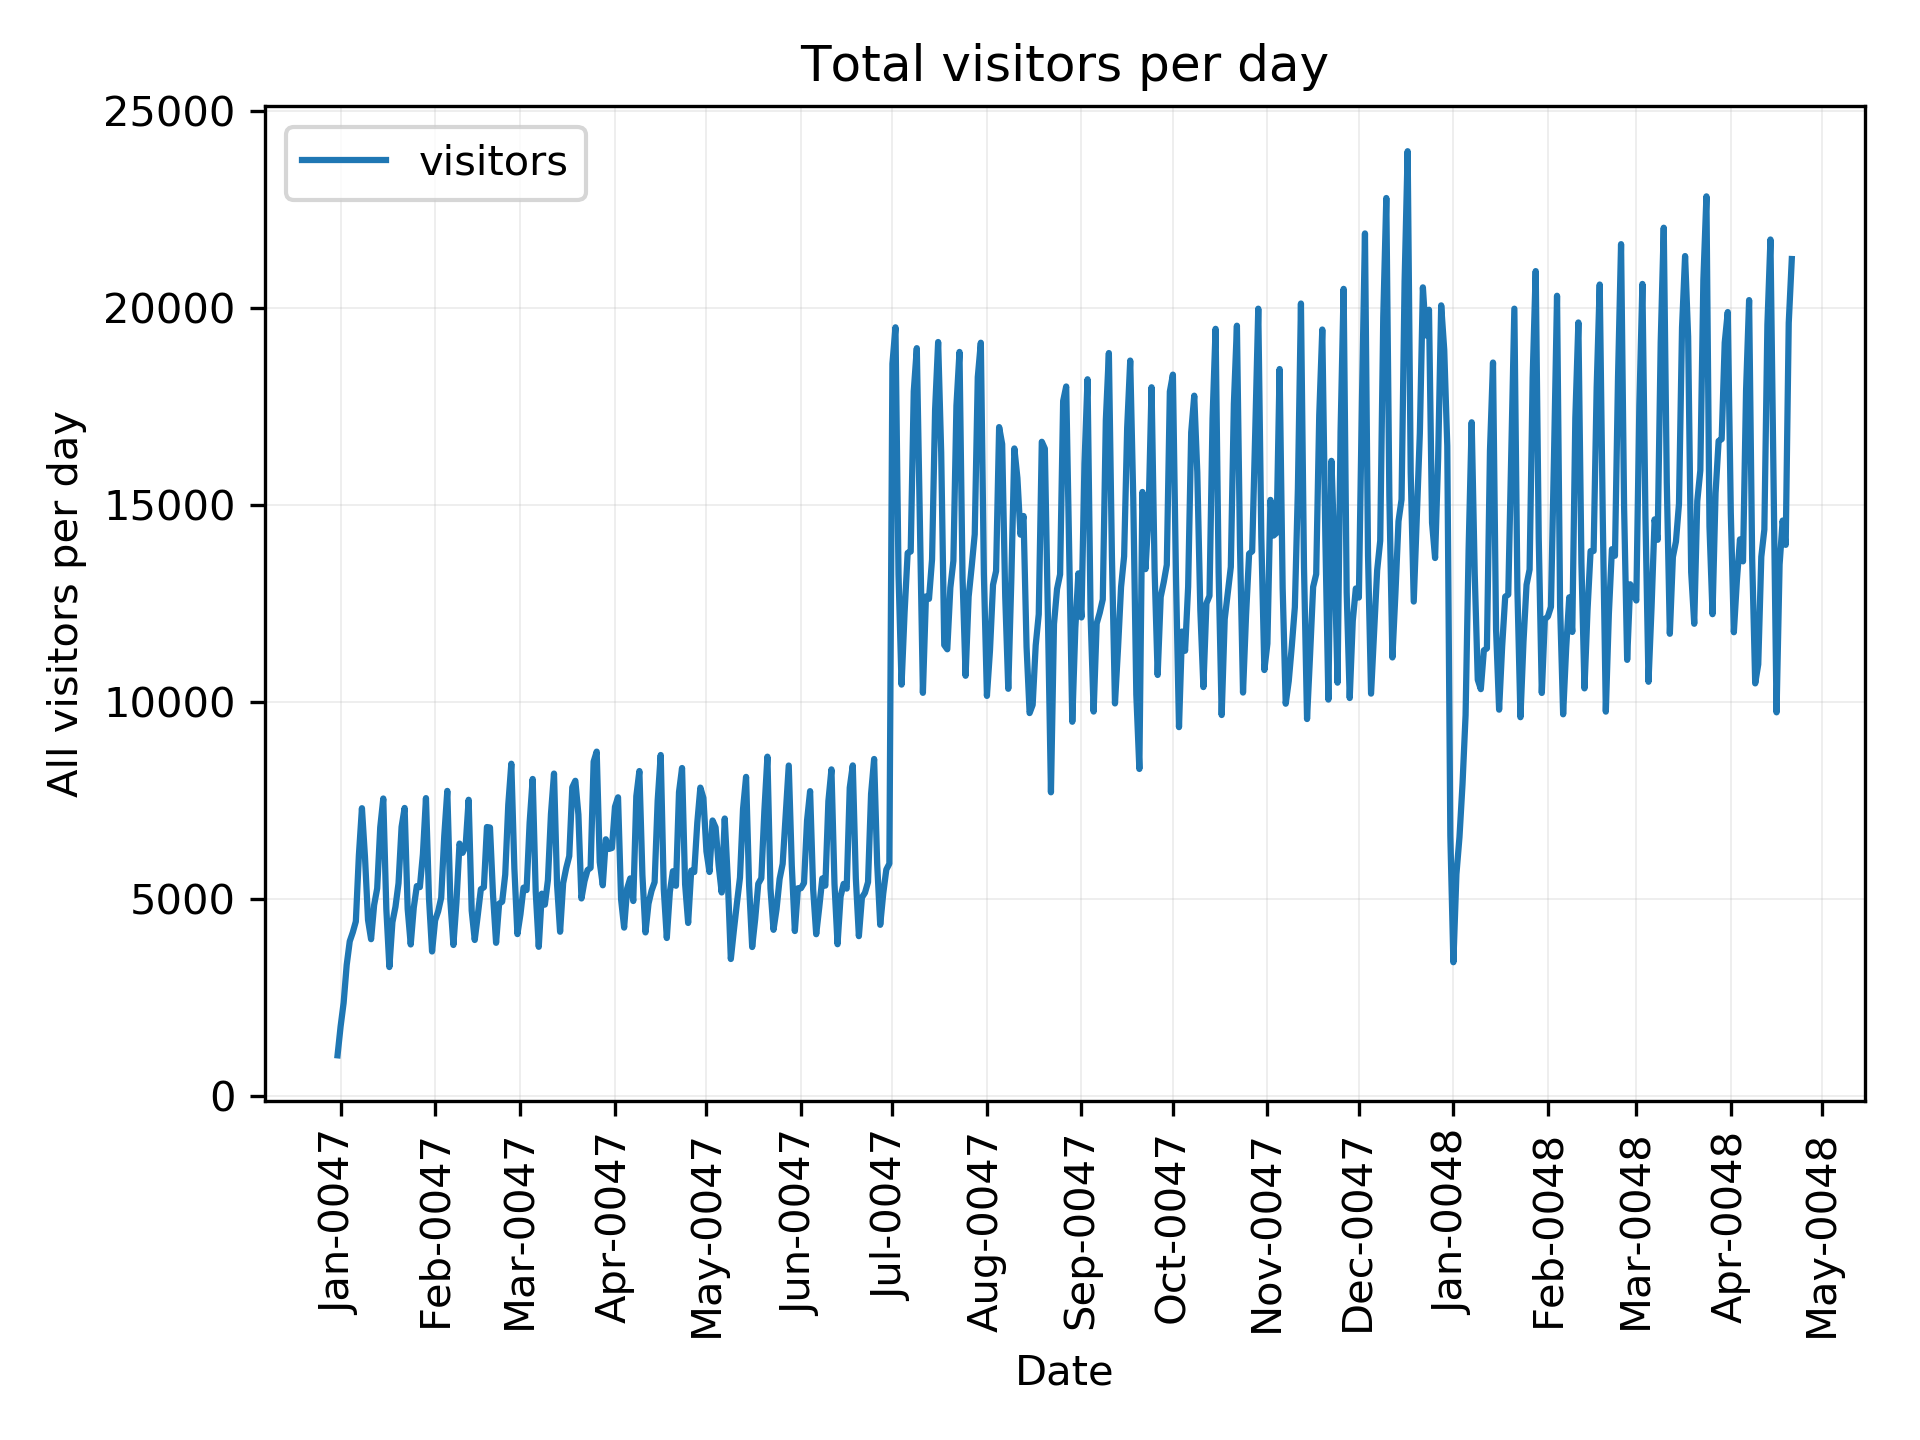
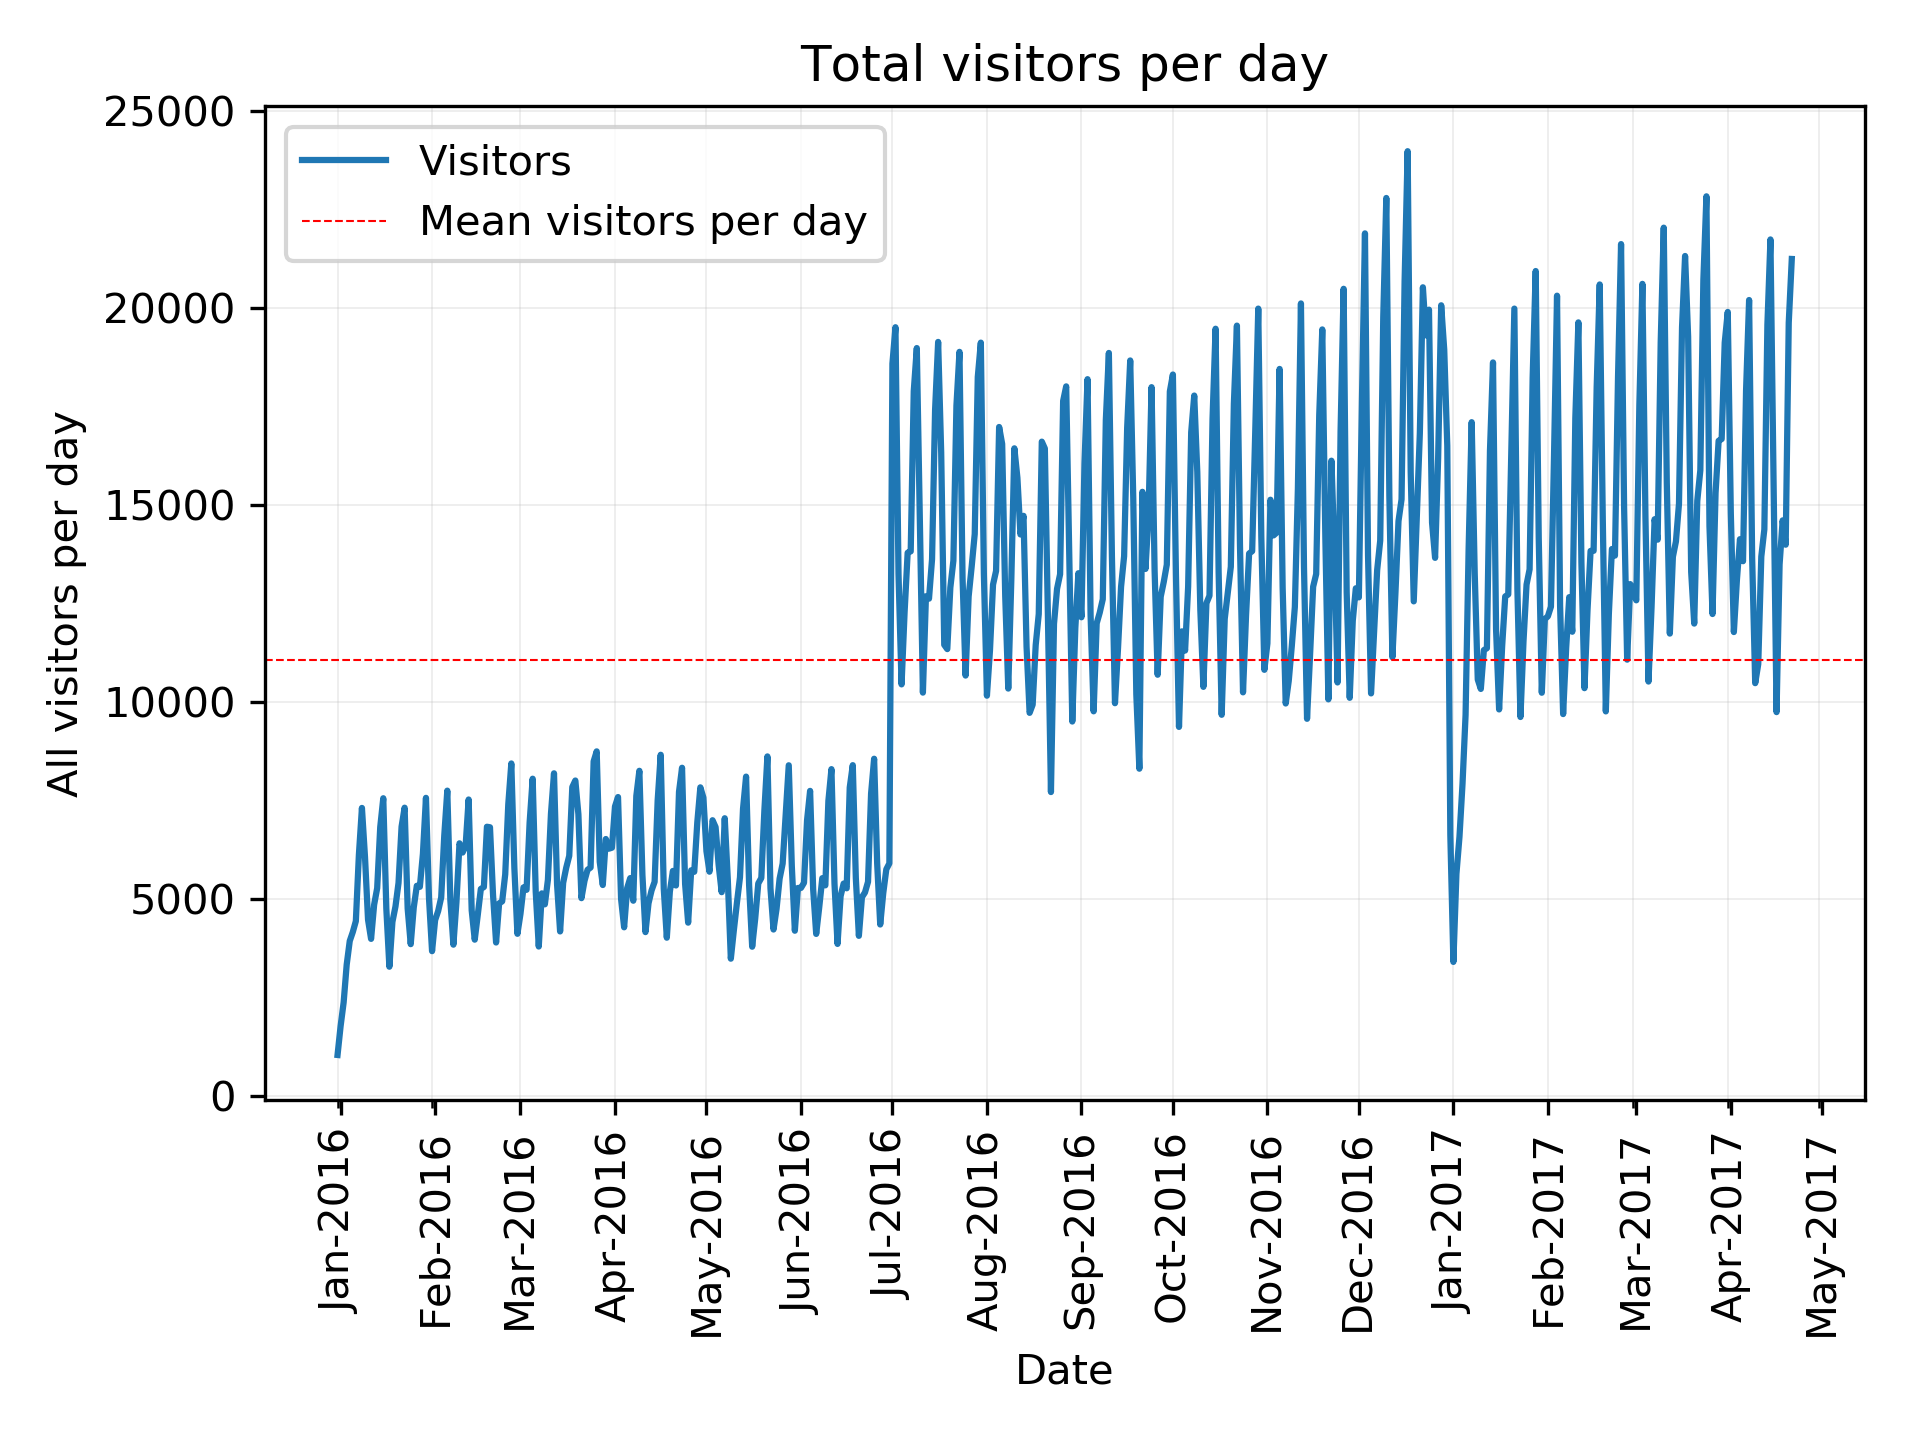
fixed date year-month formatting

diff --git a/air_visits.py b/air_visits.py
@@ -1,21 +1,29 @@
 from matplotlib import pyplot
 import matplotlib.dates as mdates
+import matplotlib.ticker as mticker
+import pandas as pd
 
+
+@mticker.FuncFormatter
+def month_formatter(x, pos):
+    return pd.to_datetime(x, unit='D').strftime('%b-%Y')
 
 def plot_all_visitors_by_date(air_visit_data):
-    ax = air_visit_data.groupby('visit_date').sum().plot()
+    ts = air_visit_data.groupby('visit_date').sum()
+    ax = ts.plot()
     ax.set_title("Total visitors per day")
     ax.set_xlabel('Date')
     ax.set_ylabel('All visitors per day')
     ax.set_xticklabels(air_visit_data.index, rotation=90)
 
-    ax.xaxis.set_minor_locator(mdates.MonthLocator())
     ax.xaxis.set_major_locator(mdates.MonthLocator())
-    ax.xaxis.set_major_formatter(mdates.DateFormatter('%b-%Y'))
+    ax.xaxis.set_major_formatter(month_formatter)
     ax.grid('on', which='minor', axis='x', linestyle='-', linewidth=0.1)
     ax.grid('on', which='major', axis='y', linestyle='-', linewidth=0.1)
+    ax.axhline(y = ts.mean().item(), color='r', linestyle='--', lw=0.5)
+    ax.legend(['Visitors', 'Mean visitors per day'])
 
     pyplot.tight_layout()
-    pyplot.show()
+    #pyplot.show()
     pyplot.savefig('figures/all_visitors_by_date.png', dpi=300)
 
